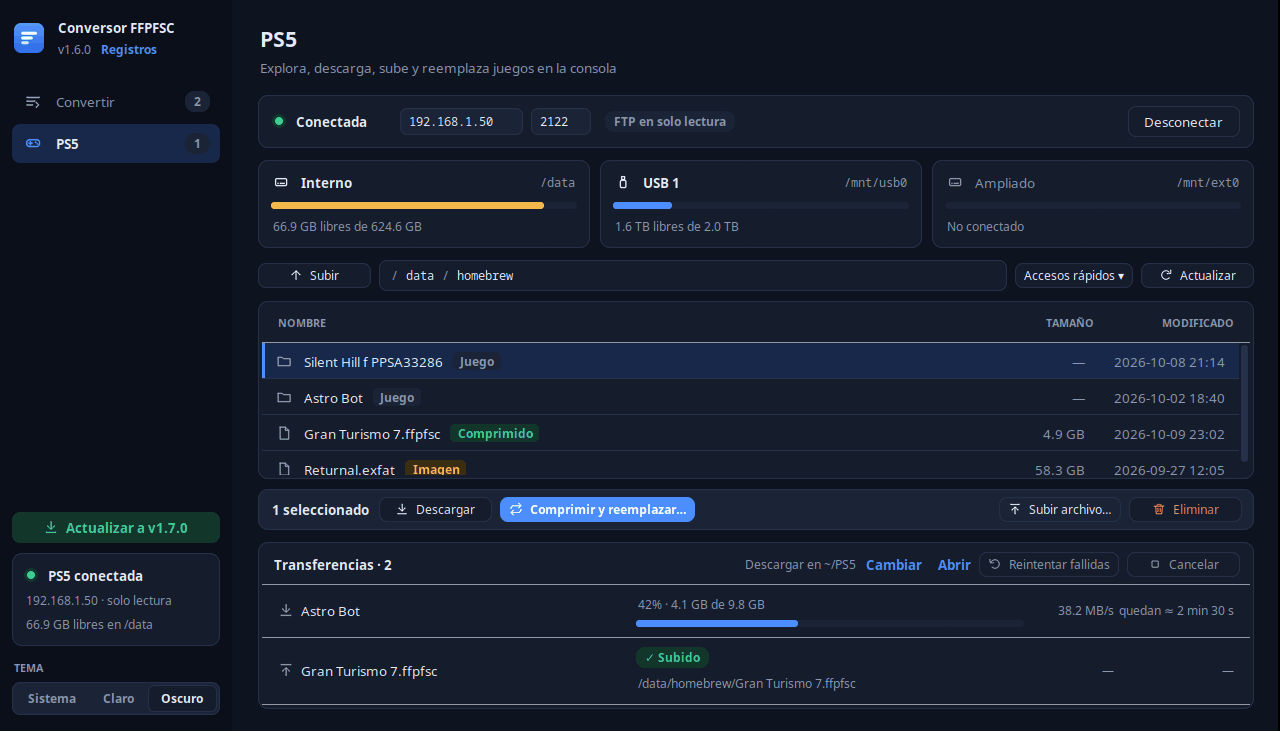
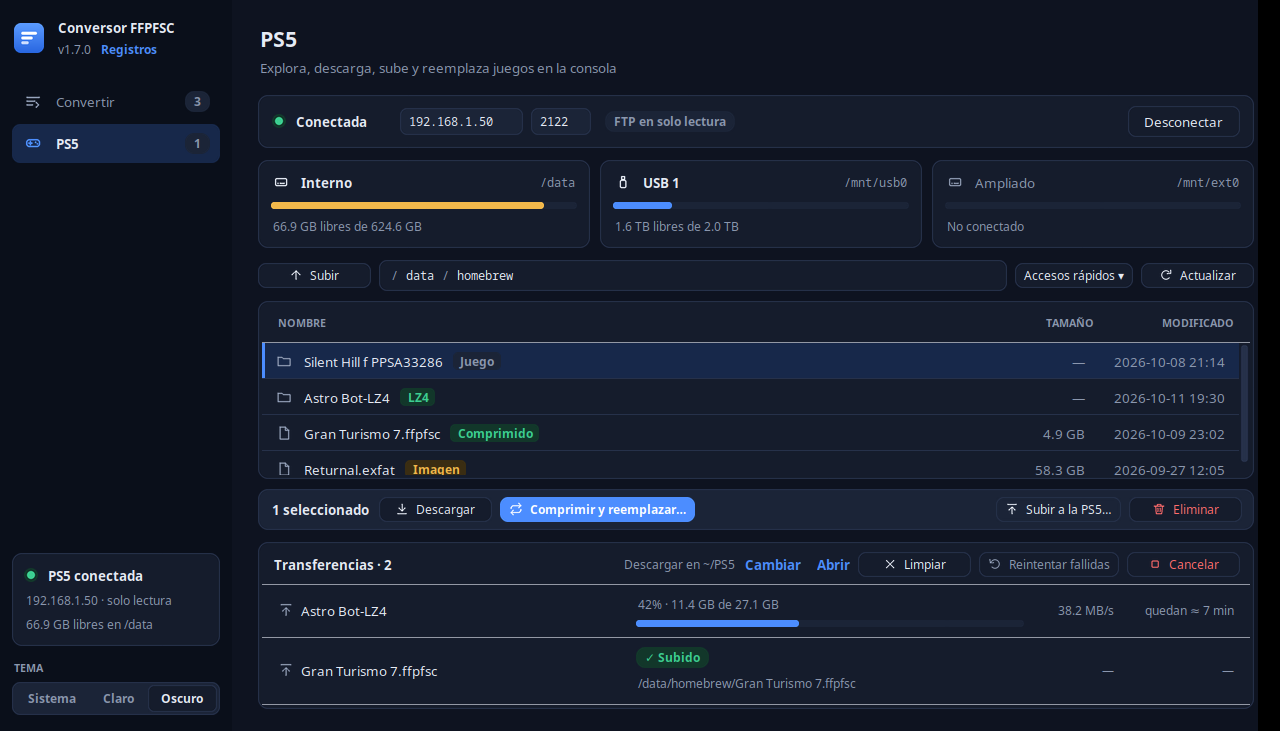
docs(readme): capturas con el selector de formato y la etiqueta LZ4
El subtítulo de Convertir menciona LZ4.

diff --git a/src/ffpfsc_converter/ui/main_view.py b/src/ffpfsc_converter/ui/main_view.py
@@ -111,7 +111,7 @@ class MainView:
         texts = ttk.Frame(head, style="TFrame")
         texts.pack(side="left")
         ttk.Label(texts, text="Convertir", style="Title.TLabel").pack(anchor="w")
-        ttk.Label(texts, text="Comprime juegos a .ffpfsc para ShadowMount+",
+        ttk.Label(texts, text="Comprime juegos a .ffpfsc o LZ4 para ShadowMount+",
                   style="Muted.TLabel").pack(anchor="w")
         icon_button(head, self._theme, "Abrir carpeta de salida", "folder",
                     callbacks.on_open_output, style="Ghost.TButton", role="muted").pack(

diff --git a/README.md b/README.md
@@ -14,9 +14,9 @@
 
 <br/>
 
-<img src="docs/assets/convertir.png" alt="Pestaña Convertir con dos juegos en la cola" width="820"/>
+<img src="docs/assets/convertir.png" alt="Pestaña Convertir con el formato LZ4 elegido y tres juegos en la cola" width="820"/>
 <br/><br/>
-<img src="docs/assets/ps5.png" alt="Pestaña PS5 con las unidades, los archivos y las transferencias" width="820"/>
+<img src="docs/assets/ps5.png" alt="Pestaña PS5 con las unidades, los archivos (uno ya en LZ4) y las transferencias" width="820"/>
 
 <br/>
 

diff --git a/CHANGELOG.md b/CHANGELOG.md
@@ -5,6 +5,10 @@ el proyecto usa [Versionado Semántico](https://semver.org/lang/es/).
 
 ## [Sin publicar]
 
+### Cambiado
+- Capturas del README actualizadas con el selector de formato y la etiqueta LZ4; el subtítulo
+  de Convertir menciona LZ4.
+
 ## [1.7.0] - 2026-10-12
 
 ### Cambiado
